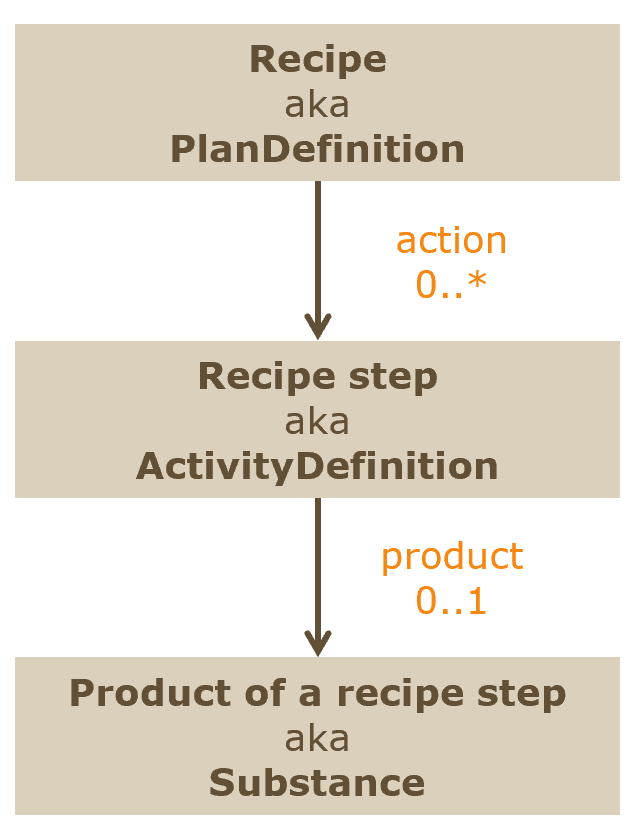
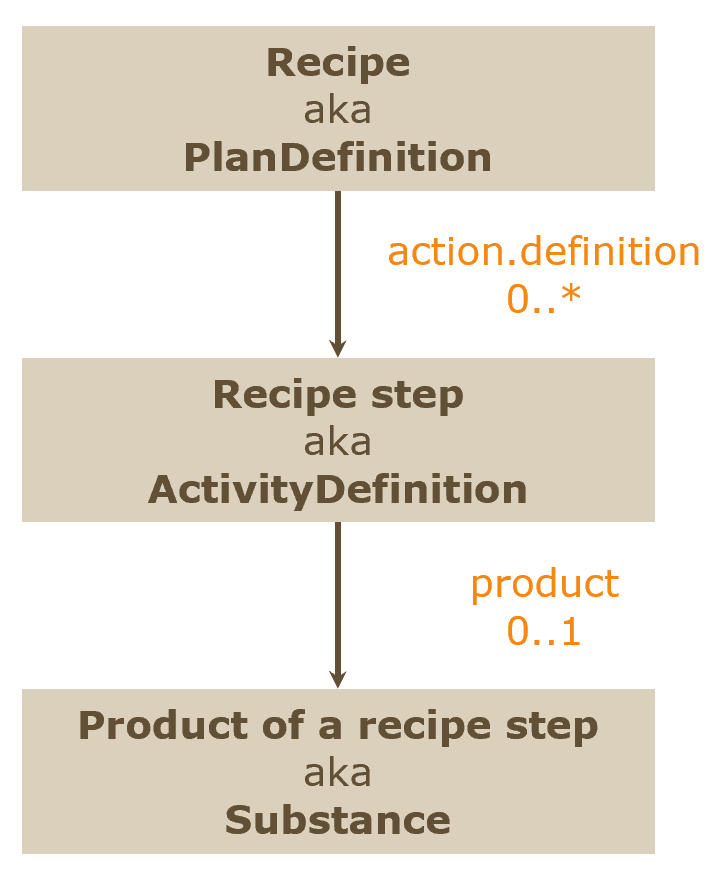
update use cases and reorg pages (issue #6)

diff --git a/input/pagecontent/usecases.md b/input/pagecontent/usecases.md
@@ -1,31 +1,56 @@
-
-### Cooking on Fire
 The Cook family enjoys cooking and does so almost daily. Ron and Milja use the app 'Cooking on Fire' to manage their recipes. In addition to the recipe database, the app also offers the option of creating a menu plan and a shopping list.   
-Milja and Ron also like to cook for friends. Unfortunately, not all guests like everything or are even allergic to certain foods. The app makes it possible to record these preferences.
+Milja and Ron also like to cook for friends. Unfortunately, not all guests (as they themselves) like everything or are even allergic to certain foods. The app makes it possible to record these preferences.
 
-#### Instances and roles
-* **Household** (for shared recipes, menu plan and shopping list)
-   * [Household Cook](Organization-HouseholdCook.html)
+### Enter recipe
+Milja enters a new [recipe for an asparagus tart](PlanDefinition-a05feeec-019a-4e29-ad2b-b7c3b3940f49.html) in the 'Cooking on Fire' app, for the household Cook. She enters the different cooking steps and the ingredients needed to prepare this dish. The effort required to cook the dish, the diet, the season or a comment on the recipe can also be entered. 
 
-* **Cook in a household** (authenticated app user)
-   * [Ron Cook @ Household Cook](PractitionerRole-RonCookHouseholdCook.html) 
-   * [Milja Cook @ Household Cook](PractitionerRole-MiljaCookHouseholdCook.html)
+{% include img.html img="recipe.png" caption="Fig.: Recipe aka PlanDefinition " width="60%" %}
 
-{% include img.html img="practitionerrole.png" caption="Fig.: Cook in a household with its references" width="53%" %}
+Milja can also add a photo of this deliciously cooked starter or main course in the app, either when entering the recipe or later.
+
+{% include img.html img="asparagus-tart-with-bresaola.png" caption="Fig.: Recipe photo" width="25%" %}
+
+#### REST endpoints
+
+Upload/update the recipe on the server:
+```
+PUT [base]/PlanDefinition/a05feeec-019a-4e29-ad2b-b7c3b3940f49 HTTP/1.1
+```
+
+Query all active recipes of the Cook household:
+```
+GET [base]/PlanDefinition?publisher=Household Cook&status=active HTTP/1.1
+```
+
+### Cooks organize things around cooking in their household
+In the 'Cooking on Fire' app, the recipes, the menu plan, the shopping list and also the list of friends are managed per household. In the app, all registered/authenticated cooks of the respective household will have access to this shared content.   
+In the [Cook household](Organization-HouseholdCook.html), [Ron Cook](Practitioner-RonCook.html) and [Milja Cook](Practitioner-Mi) are both passionate about cooking. They usually plan the weekly menus and shopping list together. Of course, both of them can always take care of entering recipes or food preferences of their friends.
+
+{% include img.html img="roncook.png" width="8%" %}
+<i>Fig.: [Ron Cook @ Household Cook](PractitionerRole-RonCookHouseholdCook.html)</i>
+
+{% include img.html img="miljacook.png" width="8%" %}
+<i>Fig.: [Milija Cook @ Household Cook](PractitionerRole-MiljaCookHouseholdCook.html)</i>
+
+#### REST endpoints
+
+Query all cooks who are members of the Cook household:
+```
+GET [base]/Practitioner?_has:PractitionerRole:practitioner:organization.name=Household Cook HTTP/1.1
+```
+
+
+### Plan menu for eaters with their preferences
+
+TBD:
+* Ron und Milja gehören zum Haushalt -> Attribut für in-/out-house?
+   * Standard für Menuplan
+* Gäste extern: können beim Menuplan hinzugefügt werden
+* Allergien
+* Likes?
 
 * **Guest** (person who simply enjoys the cooked menu) with and without allergies/dislikes
    * [Ron Cook](Patient-Ron.html)
       * Ron [likes everything](AllergyIntolerance-NoKnownAllergyDislikeRon.html)
    * [Milja Cook](Patient-Milja.html)
       * Milja does not like [seafood](AllergyIntolerance-PineappleAllergyMilja.html) and [pineapple](AllergyIntolerance-PineappleAllergyMilja.html)
-
-{% include img.html img="patient.png" caption="Fig.: Guest with its references" width="25%" %}
-
-### Enter recipe
-Milja Cook enters a new [recipe for an asparagus tart](PlanDefinition-a05feeec-019a-4e29-ad2b-b7c3b3940f49.html) in the 'Cooking on Fire' app. She enters the different cooking steps (e.g. [step 1](ActivityDefinition-d1beee57-bf0f-422d-8767-e5286c872b3e.html)) and the ingredients needed to prepare this dish (e.g. [tart dough and Greek yoghurt](Substance-40c44b70-ef56-4d06-ae59-fc2c813d866a.html)). The effort required to cook the dish, the diet, the season or a comment on the recipe can also be entered.
-
-{% include img.html img="plandefinition.png" caption="Fig.: Recipe with its references" width="25%" %}
-
-{% include img.html img="recipe.png" caption="Fig.: Recipe aka PlanDefinition " width="60%" %}
-
-

diff --git a/input/pagecontent/profiles.md b/input/pagecontent/profiles.md
@@ -1,0 +1,25 @@
+### Recipes
+* [CoF PlanDefinition](StructureDefinition-cof-plandefinition.html): Profile of the recipe
+* [CoF ActivityDefinition](StructureDefinition-cof-activitydefinition.html): Profile of the recipe step
+* [CoF Substance](StructureDefinition-cof-substance.html): Profile of the product of a recipe step
+
+{% include img.html img="plandefinition.png" caption="Fig.: Recipe with its references" width="25%" %}
+
+### Cooks in a household
+* [CoF PractitionerRole](StructureDefinition-cof-practitionerrole.html): Profile of the cook in a household 
+* [CoF Organization](StructureDefinition-cof-organization.html): Profile of the household (for shared recipes, menu plan, shopping list and list of friends)
+* [CoF Practitioner](StructureDefinition-cof-practitioner.html): Profile of the cook (authenticated app user)
+
+{% include img.html img="practitionerrole.png" caption="Fig.: Cook in a household with its references" width="53%" %}
+
+### Eaters with their preferences
+* [CoF Patient](StructureDefinition-cof-patient.html): Profile of the guest
+* [CoF AllergyIntolerance](StructureDefinition-cof-allergyintolerance.html): Profile of the allergy/dislike
+
+{% include img.html img="patient.png" caption="Fig.: Guest with its references" width="25%" %}
+
+
+
+
+
+
